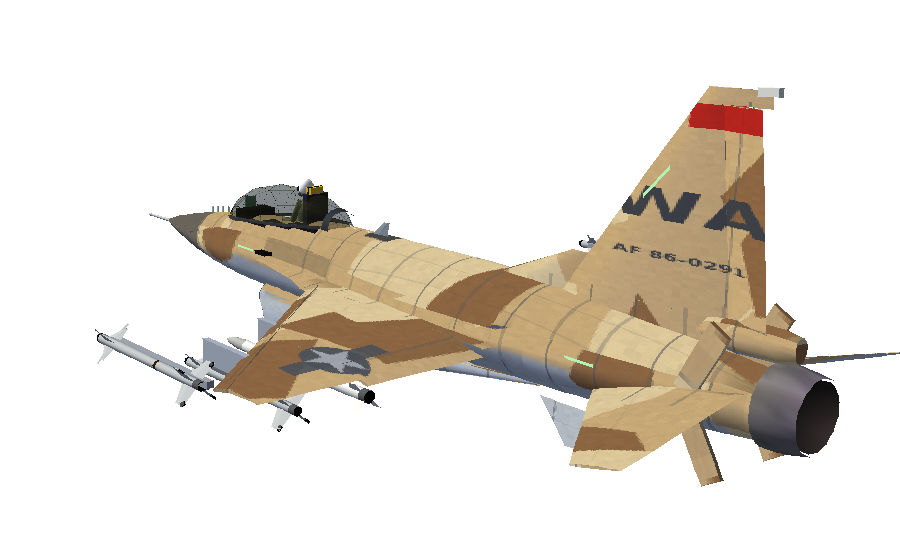
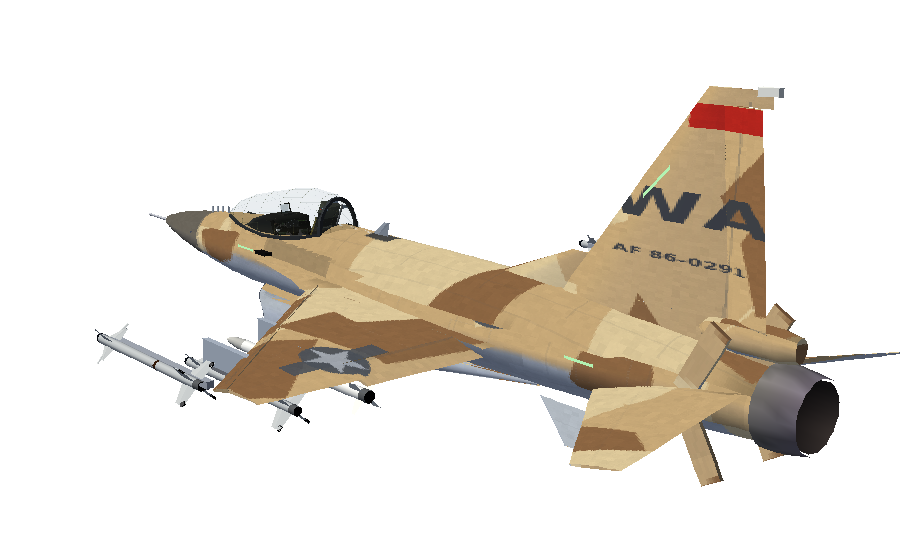
Full documentation: docs/DOKUMENTACIO.md, README refresh, new screenshots
- docs/DOKUMENTACIO.md: where to play, controls (keyboard, mouse, gamepad),
  game modes, every system in detail, Python <-> browser module map,
  tools, tests, publishing, development log, known limits and next ideas
- README: removed outdated bits (pilot, 6 s service, old throttle and
  instructor text), new project layout incl. web/ and tools/, link to the
  full documentation
- Screenshots of the current model, the lock box and the missile warning

Claude-Session: https://claude.ai/code/session_0124HmJ4x7WrAqLerXniUm2F

diff --git a/docs/DOKUMENTACIO.md b/docs/DOKUMENTACIO.md
@@ -1,0 +1,288 @@
+# Dogfight – F-16C Viper: teljes dokumentáció
+
+Ez a dokumentum mindent leír, ami a projektben elkészült: hol és hogyan lehet játszani, mit tud a játék,
+hogyan épül fel a kód, hogyan kell karbantartani, és milyen lépésekben készült (fejlesztési napló).
+A rövidebb, játékosoknak szóló leírás a [README](../README.md)-ben van.
+
+---
+
+## 1. Áttekintés
+
+War Thunder-szerű légiharc-játék egyetlen géppel, az **F-16C Block 50 Viperrel**. A repülés, a radar,
+a rakéták és a lockolás valódi adatokra épülnek (War Thunder- és valós F-16 értékek). Két, egymással
+egyenértékű változat van:
+
+| Változat | Hol fut | Mire jó |
+|---|---|---|
+| **Böngészős** (`web/`, Three.js) | Chrome, telepítés nélkül; GitHub Pages-ről vagy egyetlen letöltött fájlból | ezzel játszik a legtöbb ember, iskolában is |
+| **Python** (`dogfight/`, Panda3D) | saját gépen, `python main.py` | az „eredeti”, ebből készülnek a böngészős változat modelljei és a terep |
+
+A két változat ugyanazt a szimulációt használja (a JavaScript a Python sorról sorra átírt változata),
+ugyanazokkal a számokkal.
+
+---
+
+## 2. Hol és hogyan lehet játszani
+
+| Mód | Link / parancs | Megjegyzés |
+|---|---|---|
+| **GitHub Pages** | https://davidlipcs.github.io/Dogfight/ | bárki megnyithatja; a gyökér átirányít a `web/` oldalra; a `main` ágra pusholás után ~1 perc alatt frissül |
+| **Letöltött fájl** | https://davidlipcs.github.io/Dogfight/web/dogfight-offline.html | `Dogfight-F16.html`, ~14 MB, dupla kattintással indul, internet sem kell; a menüben „Letöltés egy fájlban” link is van |
+| **claude.ai artifact** | https://claude.ai/artifact/KAfUJ7Wu7RVBsrRqSdVNGE | privát (csak a tulajdonos látja, a Share menüből osztható); itt nincs letöltés link |
+| **Python** | `pip install -r requirements.txt` → `python main.py` | Python 3.9+, Panda3D, numpy |
+
+Az iskolai hálózatokra figyelve a böngészős változat **nem tölt semmit külső szerverről** (a three.js a
+repóban van). Csak a Google-betűtípusok jönnek kívülről; ha le vannak tiltva, a játék rendszerbetűkkel megy.
+Ha egy hálózat a `github.io` címeket is tiltja, a letöltött egyfájlos változat működik.
+
+---
+
+## 3. Irányítás
+
+### Egér és billentyűzet
+
+| Gomb | Funkció |
+|---|---|
+| Egér | War Thunder-féle egeres célzás: a gép a fehér kör felé repül |
+| S / W | orr fel / le kézzel – amíg nyomod, a segítő elengedi a gépet, a célzókör az orron marad |
+| A / D, Q / E | orsózás, oldalkormány |
+| Shift / Z vagy Ctrl | gáz fel / le: koppintás 5%, tartva 40%/s; 100%-nál (MIL) megáll, újabb Shift = utánégető; lefelé az első nyomás kikapcsolja |
+| G | futómű |
+| B (tartva) | földön kerékfék, levegőben légfék |
+| C / jobb egérgomb (tartva) | körülnézés (kabinban a fejet fordítja) |
+| V | kabin / külső nézet |
+| Görgő / középső egérgomb | fegyverváltás / zoom (böngésző) |
+| Bal egérgomb / Space | gépágyú / rakéta |
+| 1 / 2 | AIM-9M / AIM-120A |
+| X (tartva) | flare + chaff |
+| T / F / Y / R | radar lock / hőkövető lock / következő radarcél / radar be-ki |
+| M, H, P, Enter, Esc | jelölők, súgó, szünet, újraéledés, egér elengedése |
+
+A Python változatban a zoom a **Z** (tartva), a gáz le a **Ctrl**.
+
+### Kontroller (Xbox / PlayStation)
+
+Bal kar = közvetlen irányítás (hátra = orr fel) · jobb kar = célzókör · RT / LT = gáz · RB = ágyú ·
+A = rakéta · LB = flare · X / B = radar / hőkövető lock · Y = fegyverváltás · D-pad: futómű / fék / nézet /
+zoom · L3 tartva = körülnézés · R3 = jelölők · Start = szünet · Back = súgó. A menüben A = felszállás,
+X = indulás a levegőben. (Böngésző: Gamepad API; Python: Panda3D input devices.)
+
+---
+
+## 4. Játékmenet
+
+* **Kezdés:** a Viper Base légibázis 36-os pályájának elején (vagy `Indulás a levegőben` / `--air-start`).
+* **Hullámok:** az első ellenséges hullám 25 s-mal a felszállás után érkezik 32–40 km-ről; minden hullám
+  eggyel több ellenséget hoz (legfeljebb 6). Hullám után 5 s szünet.
+* **Játékmódok** (menü / `--mode`):
+  * **Arkád** – minden kilőtt rakéta 10 s múlva visszakerül a sínre; a lőszer és a flare/chaff 2 s
+    szünet után 10 s alatt feltölt.
+  * **Realisztikus** – újratöltés csak leszálláskor.
+* **Kiszolgálás:** mindkét módban, ha a bázis betonján 25 m/s alá lassulsz: azonnal újrafegyverzés,
+  tankolás, javítás.
+* **Nehézség:** könnyű / normál / nehéz (az AI pilóta tudását állítja, lásd 5.6).
+* **Halál / baleset:** „LELŐTTEK!” / „LEZUHANTÁL!”, Enter (kontrolleren A) = újraéledés a kifutón.
+
+---
+
+## 5. A rendszerek részletesen
+
+### 5.1 Repülésmodell (`sim/flight_model.py`, `web/js/flight.js`)
+
+* ISA légkör 0–32 km; magasság- és Mach-függő tolóerő (F110-GE-129), késleltetett hajtómű-felpörgés,
+  utánégető (~1,5 s), üzemanyag-fogyasztás.
+* FLCS (fly-by-wire): a bot G-t kér (−3 … +9 G), G-felépülés 10 G/s, 25°-os AoA-limiter, ~270°/s orsózás.
+* Transzonikus ellenállás M0,88-tól, indukált ellenállás, külső terhek ellenállása.
+* Futómű és földi fizika: gördülés, kerékfék, orrkerék-kormányzás, farokütés, kemény / ferde / futómű
+  nélküli földet érés = baleset, fékszárnyak a futóművel.
+* Mért értékek (lásd README táblázat): M1,19 tengerszinten, M1,89 11 km-en, plafon ~16 km, 9 G-s forduló
+  ~21°/s, felszállás utánégetővel ~450 m.
+* Fix lépésköz: fizika 100 Hz, szenzorok 30 Hz, AI 10 Hz.
+
+### 5.2 Egeres „instruktor” (`ai/steering.py`, `web/js/ai.js` – `steerTowards`)
+
+A War Thunder egeres irányításához hasonló robotpilóta; a játékos és az AI ugyanazt használja.
+
+* A **repülési pályát** viszi a cél felé, gravitáció-kompenzációval.
+* Kért fordulási sebesség = 0,9 × szöghiba (max 1 rad/s), a pálya már meglévő fordulásával csillapítva.
+* Kis korrekció (< ~40°): a bedöntés korlátozott (20°-tól nő), a maradékot oldalkormány végzi.
+* Kicsit lejjebb lévő cél (< 40°): negatív G-s nyomás vízszintes szárnyakkal, nem fordul hátára.
+  A húzás / nyomás döntésnek 20°-os hiszterézise van, így nem billeg oda-vissza.
+* A játékosnál a segítő 0,85 × 9 G-nél (~7,6 G) megáll; az S-sel kihúzható a teljes 9 G.
+* Kézi irányítás (W/S/A/D vagy bal kar): a segítő elenged, a nem nyomott tengely tartja a helyzetét,
+  a célzókör az orron marad (elengedéskor nem rántja vissza a gépet).
+
+### 5.3 Gázkar
+
+Koppintás = 5%, tartva 0,3 s után 40%/s. Felfelé 100%-nál (MIL) megáll, az utánégetőhöz új nyomás kell;
+lefelé az első nyomás az utánégetőből egyből 100%-ra vált. A HUD `THR` a gázkar, `MOT` a hajtómű valós
+állása (a hajtómű pár másodperc alatt éri utol). A billentyűzet-állapotot minden egér- és billentyű-esemény
+Shift / Ctrl jelzőjéből újraszinkronizálja (elveszett Shift-felengedés ellen, pl. Windows „Beragadó
+billentyűk”). Böngészőben a Ctrl+W előtt a lap rákérdez a kilépésre.
+
+### 5.4 Fegyverek és lockolás
+
+| Fegyver | Adatok |
+|---|---|
+| M61A1 | 6000 lövés/perc, 511 lőszer, 1050 m/s, nyomjelzők, előretartás-jelző radar lockkal |
+| AIM-9M | IR kereső 2,5° FOV, 40° kardán, IRCCM 0,65 (flare-szűrés), ~M2,5, 9 km keresőhatótáv (hőtől függ) |
+| AIM-120A | datalink + inerciális középszakasz, 16 km-en PITBULL (aktív), lofting, ~M4, maddog indítás |
+| ALE-47 | 30 flare + 30 chaff |
+
+**Lock segítő (csak a játékosnál):**
+* AIM-9M: a kereső 10°-os körben keres, és **magától lockol**, ha ellenség van benne. Az F azonnal lockol
+  bármelyik ellenségre ±30°-on belül, vagy elengedi a lockot (utána 3 s-ig nem lockol magától).
+* Radar: a **T** a nézési irányhoz legközelebbi ellenséget fogja be (±30°, 55 km-ig) ~0,25 s alatt;
+  újra T = következő cél, ha nincs más, unlock. Radar lockkal a hőkövető is ráfordul.
+
+**Lock kijelzés:** vastag négyzet a célon (a gép méretéhez igazodik), „LOCK” + fegyver, távolság, Vc;
+pirosan villogó „LŐHETSZ! (Space)” hatótávon belül; „még messze” / „túl közel” / „messze van – válts
+AIM-120-ra (2)”. Szaggatott vonal a várható találati pontig (⊗, a DLZ fly-out modellből számolt idővel),
+pöttyözött vonal a cél várható pályájáról, a saját rakéták rombusz-jelölője becsapódásig hátralévő idővel.
+
+**DLZ** (`launch_zone` / `launchZone`): 1D fly-out modell; Rmax ott ér véget, ahol a rakéta 450 m/s alá
+lassul (onnan már nem tud fordulni). Példa 5 km-en szemből: AIM-120 ~37 km, AIM-9 ~21 km.
+
+### 5.5 Szenzorok és figyelmeztetés
+
+* **APG-68 radar:** SRCH (±60° pásztázás, B-scope), ACM, STT; pulzus-Doppler notch (25 m/s), chaff a notch
+  közelében hat.
+* **RWR:** keresés (zöld), lock (sárga), indítás (piros) – radaros fenyegetések.
+* **Rakétaközelítés-jelző (MAWS, csak játékos):** minden rád kilőtt rakéta 15 km-en belül, a hőkövetők is:
+  gyorsuló sípolás, „MISSILE!”, piros jel a rakétán távolsággal és becsapódási idővel, kép szélén nyíl,
+  RWR-en `M`.
+* Ellenség-jelölők 80 km-ig.
+
+### 5.6 AI (`ai/pilot.py`, `web/js/ai.js`)
+
+Az ellenség **pontosan ugyanolyan F-16** (gép, festés, fegyverzet), csak a pilóta kicsit gyengébb:
+
+| Nehézség | max G | pontosság | rakéta-szünet | flare-esély | észlelés | DLZ-hányad, ahonnan lő |
+|---|---|---|---|---|---|---|
+| könnyű | 0,60 | 0,65 | 36 s | 0,30 | 0,20 | 0,5 (csak AIM-9) |
+| normál | 0,80 | 0,85 | 24 s | 0,60 | 0,45 | 0,7 |
+| nehéz | 0,92 | 0,95 | 15 s | 0,90 | 0,75 | 0,8 |
+
+Viselkedés: járőrözés, célkövetés (rakéta, ágyú), védekezés (notch, flare/chaff, kitérés), terep- és
+pályahatár-kerülés. A játékos a teljes DLZ-t kihasználhatja, így mindig messzebbről lőhet.
+
+### 5.7 Kabin és nézetek
+
+* Kabin-kád a törzsbe vágva, magas buborék-kabintető kerettel és tükrökkel, 30°-ban döntött ACES II ülés,
+  oldalkonzolok, oldalsó bot és gázkar, műszerfal két világító MFD-vel, DED, ICP, tartalék műszerek,
+  takaróernyő és HUD. Pilóta szándékosan nincs. A textúra: `dogfight/render/cockpit.png`
+  (`tools/make_cockpit_texture.py` rajzolja).
+* A kabinnézet a géphez rögzített (együtt orsózik, bólint), C / jobb gomb / L3 = fejfordítás; G alatt a
+  fej lesüllyed; 7,5 G felett elsötétülés, −1,8 G alatt bevörösödés.
+* A saját gép kabinnézetben külön, közeli (3 cm-es near plane) renderelési menetben rajzolódik
+  (Three.js layer 1, Panda3D camera mask + display region), így a műszerfal nem vágódik le.
+* Külső nézet: War Thunder-féle követő kamera, a horizontra visszabillenő célzással.
+
+### 5.8 Grafika és hang
+
+* F-16 kódból épített modell: Catmull-Rom törzs, LERX, NACA profilok, csuklós kormányfelületek, háromszínű
+  szürke festés textúra-atlasszal, fények, páracsóva, szárnyvég-örvények, utánégető-láng.
+* 102 × 102 km-es sziget LOD-terepen, légibázis (pálya, gurulóút, fedezékek, torony, fények), felhők,
+  tenger, részecske-effektek (füst, robbanás, flare), nyomjelzők.
+* Minden shader az első képkockán lefordul (nincs akadás az első utánégetőnél / rakétánál).
+* Hangok kódból generálva (WebAudio / Panda3D): hajtómű, utánégető, ágyú, growl, lock-hang, RWR, MAWS,
+  indítás, találat, robbanás.
+
+---
+
+## 6. A kód felépítése
+
+### 6.1 Megfeleltetés a két változat között
+
+| Python (`dogfight/`) | Böngésző (`web/js/`) | Tartalom |
+|---|---|---|
+| `sim/specs.py` | `specs.js` | F-16C, AIM-9M, AIM-120A, M61A1, APG-68, ALE-47 adatai |
+| `sim/atmosphere.py`, `sim/flight_model.py` | `flight.js` | légkör, aerodinamika, FLCS, hajtómű, futómű |
+| `sim/terrain.py`, `sim/airfield.py` | `terrain.js` | magasságmező, reptér |
+| `sim/ir_seeker.py`, `radar.py`, `rwr.py`, `missile.py`, `guns.py`, `signatures.py`, `countermeasures.py` | `weapons.js` | szenzorok, rakéták, ágyú, DLZ, flare/chaff |
+| `sim/aircraft.py`, `sim/world.py` | `sim.js` | repülőgép, világ, fix lépésköz, események |
+| `ai/steering.py`, `ai/pilot.py`, `controls.py` | `ai.js` | instruktor, AI pilóta, játékos pilóta |
+| `controls.py` | `game.js` (Input, Pad) | billentyű, egér, kontroller, gázkar |
+| `camera.py` | `game.js` (FlightCamera) | követő és kabin kamera |
+| `game.py` | `game.js` (Game) | játékmenet, módok, hullámok, kiszolgálás |
+| `render/*` | `render.js` | modellek, terep, reptér, effektek, kabin-menet |
+| `ui/hud.py`, `ui/scopes.py`, `ui/help.py` | `hud.js`, `index.html` | HUD, radar, RWR, G-hatások, súgó |
+| `audio.py` | `audio.js` | hangok |
+
+### 6.2 Eszközök (`tools/`)
+
+| Parancs | Mit csinál |
+|---|---|
+| `python tools/export_web_assets.py` | a Python modellből / terepből előállítja a `web/assets/*` fájlokat (f16.json, festések, terep, kabin-textúra) |
+| `python tools/make_cockpit_texture.py` | megrajzolja a kabin-textúrát (`dogfight/render/cockpit.png`, Pillow kell) |
+| `python tools/build_offline.py` | elkészíti a `web/dogfight-offline.html` egyfájlos változatot (Node.js kell; az esbuild-et npx tölti le) |
+
+Ha a modell vagy a terep változik: `make_cockpit_texture.py` (ha a kabin változott) →
+`export_web_assets.py` → `build_offline.py`.
+
+### 6.3 Tesztek
+
+`python -m pytest` – 50 teszt: repülésmodell (végsebesség, plafon, G, orsózás, hajtómű), földi fizika
+(felszállás, leszállás, balesetek), rakéták (sebesség, rávezetés, flare, notch, pitbull), szenzorok
+(radar, IR, lock segítő, MAWS), instruktor (kis korrekció, nyomás, G-határ), gázkar (koppintás, MIL-ütköző,
+utánégető), világ (hullámok, találatok).
+
+### 6.4 Közzététel
+
+* **GitHub Pages:** a repó beállítása „Deploy from branch: main / (root)” (Jekyll). A gyökér `index.html`
+  átirányít a `web/`-re. Pusholás után a „pages build and deployment” workflow ~1 perc alatt frissít.
+* **claude.ai artifact:** a `web/index.html` belső része (doctype / html / head / body nélkül, letöltés-link
+  nélkül) a `web/js/*` és `web/assets/*` fájlokkal publikálva.
+* **Offline fájl:** `tools/build_offline.py` után a `web/dogfight-offline.html` commitolva (a Pages-ről
+  tölthető le).
+
+---
+
+## 7. Fejlesztési napló
+
+| # | Kérés | Ami elkészült | Commit |
+|---|---|---|---|
+| 1 | War Thunder-szerű játék, először csak F-16, rakéták, lockolás | Python + Panda3D játék: F-16C, AIM-9M, AIM-120A, gépágyú, radar, RWR, AI, HUD | `cadf9c6` |
+| 2 | Térkép kisebb-nagyobb hegyekkel | 102 km-es sziget, LOD-terep, gyorsítótár | `3de7ea1` |
+| 3 | Realisztikus mozgás, gyorsulás, magasság | ISA légkör, hajtómű-késleltetés, G-felépülés, plafon, instruktor | `b7f5160` |
+| 4 | Felszállópálya, több realizmus | Viper Base, felszállás / leszállás fizika, kiszolgálás | `724ecd3` |
+| 5 | Sokkal részletesebb, szebb F-16 | kódból épített részletes modell, rakéták, festés | `0204790` |
+| 6 | Még szebb F-16 | mozgó kormányfelületek, háromszínű festés, fények, páracsóva | `41e7aca` |
+| 7 | Kipróbálás Chrome-ban, telepítés nélkül | teljes böngészős port (Three.js), claude.ai artifact | `318cb0e` |
+| 8 | Kevésbé gyerekes modell, részletes kabin, pilóta nélkül | kabin-kád, ülés, műszerfal MFD-kkel, HUD; pilóta törölve; kabin-menet | `ede5940` |
+| 9 | Fegyverváltás görgővel, S fel / W le | görgő = fegyverváltás, zoom a középső gombon, S/W csere | `714b24a` |
+| 10 | Könnyebb lockolás | lock segítő: önálló IR-lock, T a nézési irányba | `ae256b2` |
+| 11 | Elérés GitHubról, iskolában | GitHub Pages, three.js a repóban, gyökér-átirányítás | `b9f79c6` |
+| 12 | Egyértelmű lock: négyzet, hova megy | lock-négyzet, LŐHETSZ, találati pont, rakéta-pályák | `8b140a4` |
+| 13 | Letöltés | egyfájlos offline változat | `73ee2d0` |
+| 14 | Beakad az utánégető | Shift-újraszinkron, Z = AB ki, shader-előfordítás | `4bfc908` |
+| 15 | Kabin forogjon a géppel, realisztikusabb forduló, figyelmeztetés minden rakétára; Arkád / Realisztikus mód; precíz gázkar | rögzített kabin, G-hatások, MAWS, gázkar MIL-ütközővel, játékmódok | `021dca0` |
+| 16 | Furcsa fordulás, forog W/S-nél – legyen War Thunder-szerű | új instruktor (arányos, nyom, hiszterézis), kézi irányítás átvétele | `b62b4a1` |
+| 17 | Kontroller, flare és lőszer újratöltés | Gamepad (böngésző + Python), arkád lőszer / flare töltés | `2bc5829` |
+| 18 | AI ugyanolyan gép, kicsit gyengébb; én is lőhessek messziről | azonos F-16, gyengébb AI, DLZ alapú AI-lövés, 80 km-es jelölők | `b8c41ae` |
+| 19 | Dokumentáció | ez a dokumentum, README frissítés, új képek | – |
+
+---
+
+## 8. Ismert korlátok és tesztelési megjegyzések
+
+* A böngészős változatot csak **fej nélküli Chrome-ban, szoftveres rendereléssel** teszteltük (1–18 FPS).
+  Valódi videokártyán a sebességet nem mértük; gyenge iskolai gépen kisebb ablak segíthet.
+* **Kontroller:** a böngészőben szimulált kontrollerrel teszteltük; a Python változat kontrolleres része
+  valódi eszköz nélkül nem volt kipróbálható.
+* Böngészőben a Ctrl lenyomva tartása közben a böngésző saját gyorsbillentyűi (pl. Ctrl+1 lapváltás)
+  továbbra is működnek – a Z biztonságosabb gáz le gomb.
+* A claude.ai artifact privát; másnak a Share menüből kell megosztani. Ott a letöltés link nem működik.
+* Ha egy hálózat a `github.io`-t is tiltja, csak a letöltött egyfájlos változat működik.
+* Az offline fájl pillanatkép: változtatás után újra kell építeni (`build_offline.py`) és újra letölteni.
+* Az „aggressor” sivatagi festés még benne van a kódban, de jelenleg nem használja semmi.
+
+## 9. Ötletek a folytatáshoz
+
+* **Valódi 3D modell:** egy jó licencű F-16 `.glb` / `.blend` fájl beépítése (a mozgó kormányfelületek a
+  meglévő csuklópont-rendszerre köthetők). Blenderrel (pl. Blender MCP a Claude asztali alkalmazásában)
+  a modellezés vizuálisan ellenőrizhető lenne.
+* Több repülőgép (pl. MiG-29, Su-27) saját adatokkal.
+* Beállítások mentése (egér-érzékenység, mód, nehézség) a böngészőben.
+* Többjátékos mód.
+* Pontosabb rakéta-fly-out (2D, manőverező céllal) a DLZ-hez.

diff --git a/README.md b/README.md
@@ -44,8 +44,8 @@ Részletes, valódi méretekből kódból épített F-16C Block 50 (nem kell hoz
   kabinkád: 30°-ban hátradöntött ACES II katapultülés (sárga-fekete katapultfogantyú, hevederek),
   oldalkonzolok kapcsolókkal, oldalsó botkormány és gázkar, műszerfal két világító MFD-vel (radar és
   fegyverállapot), DED kijelző, ICP billentyűzet, tartalék műszerek, takaróernyő és HUD. A kabinnézetben (V)
-  a saját gép külön, közeli renderelési menetben rajzolódik, így a műszerfal nem vágódik le
-  (sisak, napellenző, oxigénmaszk, kezek)
+  a saját gép külön, közeli renderelési menetben rajzolódik, így a műszerfal nem vágódik le.
+  Pilóta szándékosan nincs a gépben
 * **festés:** a valódi F-16 háromszínű szürke sémája (sötét gerinc, középszürke oldalak és szárnyak,
   világos has), panelvonalak, szegecsek, árnyékolás a csatlakozásoknál, koromnyomok,
   USAF felségjelek, farokkód és gyári szám (egy „aggressor" sivatagi terepszín is készül, de most az ellenség
@@ -57,8 +57,9 @@ Közelről a részletes modell, 2,5 km-en túl egy egyszerűbb változat látszi
 
 | | |
 |---|---|
-| ![Aggressor kinyitott légfékkel](docs/f16_aggressor.png) | ![Kabin](docs/f16_cockpit.png) |
+| ![Aggressor festés, kitérített kormányfelületekkel](docs/f16_aggressor.png) | ![Kabin](docs/f16_cockpit.png) |
 | ![Felülnézet](docs/f16_top.png) | ![Páracsóva fordulóban](docs/screenshot_vapor.png) |
+| ![Lock: négyzet a célon, várható találati pont](docs/screenshot_lock.png) | ![Rakétaközelítés-jelző a kabinban](docs/screenshot_missile_warning.png) |
 
 ## Telepítés és indítás
 
@@ -144,7 +145,8 @@ ICAO-jelzésekkel, gurulóút, betonfedezékek, irányítótorony, parkoló F-16
 megközelítési fények). Az ellenség csak a felszállás után érkezik.
 
 **Felszállás**
-1. **Shift**-tel told fel a gázt 100% fölé (utánégető). A hajtómű pár másodperc alatt pörög fel.
+1. Tartsd a **Shift**-et: a gáz 100%-nál (MIL) megáll, ott még egy **Shift** = utánégető. A hajtómű pár
+   másodperc alatt pörög fel (a HUD-on `THR` a gázkar, `MOT` a hajtómű).
 2. ~**250–280 km/h**-nál emeld meg az egeret (vagy nyomd az **S**-t): a gép felemeli az orrát.
    Vigyázz, 13° felett a farok a betonhoz ér (farokütés)!
 3. ~**320 km/h** körül elemelkedik (utánégetővel kb. 450 m nekifutás, katonai teljesítménnyel kb. 700 m).
@@ -157,7 +159,7 @@ megközelítési fények). Az ellenség csak a felszállás után érkezik.
 2. Közelíts ~**270 km/h**-val, lassú süllyedéssel, vízszintes szárnyakkal.
 3. Földet érés: süllyedés **< 4 m/s**, bedöntés < 12°. Különben eltörik a futómű / leér a szárnyvég.
 4. A földön **B** = kerékfék (a gép kb. 700 m alatt áll meg), az egérrel/Q-E-vel kormányzol (orrkerék).
-5. A bázis betonján **megállva** 6 s alatt újrafegyvereznek, tankolnak és megjavítanak.
+5. A bázis betonján **lelassulva** (25 m/s alatt) azonnal újrafegyvereznek, tankolnak és megjavítanak.
 
 ## Hogyan működik a lockolás? (mint a War Thunderben)
 
@@ -171,7 +173,7 @@ A játékos gépén **lockolást segítő mód** van (az AI-n nincs): a hőköve
    **magas, folyamatos sípolásra** vált, és innentől a kereső magától követi – akár 40°-ra is elnézhet
    az orrtól. Az **F** azonnal lockol bármelyik ellenségre az orr előtti ±30°-ban, vagy elengedi a
    lockot (utána 3 s-ig nem lockol magától).
-4. **Space** = indítás. Repülés közben a rakéta saját keresővel, arányos rávezetéssel megy a célra.
+3. **Space** = indítás. Repülés közben a rakéta saját keresővel, arányos rávezetéssel megy a célra.
 
 Tippek: a hátsó félgömbből és utánégetős (AB) célra sokkal messzebbről lockol (≈9–13 km),
 szemből csak ≈3–4 km-ről. Ha van radar lockod, a kereső automatikusan a radarcélra fordul és lockol.
@@ -244,16 +246,19 @@ Az F-16C Block 50 (F110-GE-129, 4× AIM-9M + 2× AIM-120A) mért értékei a mod
   elforgatás csak elég légsebességnél, farokütés, kemény / ferde / futómű nélküli földet érés = baleset,
   a futómű a földön nem húzható be, kiengedve ellenállást ad, a fékszárnyak ~240 csomó felett felhúzódnak.
 * **Aerodinamika:** Mach-függő felhajtóerő, transzonikus ellenállás-növekedés M0,88-tól, indukált ellenállás.
-* **Egeres irányítás:** az "instruktor" a **repülési pályát** (sebességvektort) viszi a fehér körre,
-  gravitáció-kompenzációval: vízszintes célnál tartja a magasságot, oldalra mutatva koordinált,
-  helyesen bedöntött fordulót repül, mögötted lévő célnál vízszintes fordulót választ.
+* **Egeres irányítás (War Thunder-féle instruktor):** a **repülési pályát** (sebességvektort) viszi a fehér
+  körre, gravitáció-kompenzációval. A kért fordulási sebesség a szöggel arányos, ezért a kis korrekciók
+  finomak: kevés bedöntés + oldalkormány. A kicsit lejjebb lévő célhoz negatív G-vel lenyom (nem fordul
+  hátára), a húzás/nyomás választásnak hiszterézise van (nem billeg). A játékosnál ~7,6 G-nél megáll
+  (az S-sel kihúzható a 9 G). Amíg W/S/A/D-t nyomsz, elengedi a gépet, a célzókör pedig az orron marad.
+* **G-hatások:** 7,5 G felett tartósan elszürkül / elsötétül a kép, −1,8 G alatt bevörösödik.
 
 Minden adat egy helyen van: `dogfight/sim/specs.py` – itt lehet hangolni.
 
 ## Projekt felépítése
 
 ```
-main.py                 indítás, parancssori kapcsolók
+main.py                 indítás, parancssori kapcsolók (--mode arcade|realistic, --difficulty, ...)
 dogfight/
   game.py               Panda3D alkalmazás, játékmenet (hullámok, újraéledés)
   camera.py             War Thunder-féle egeres kamera, kabin nézet
@@ -270,9 +275,24 @@ dogfight/
     guns.py             gépágyú, ballisztika, találat-doboz, előretartás
     aircraft.py, world.py, terrain.py, signatures.py, countermeasures.py
   ai/                   AI pilóta + közös "instruktor" (irány -> kormánymozdulatok)
-  render/               részletes F-16 (f16_model.py) és rakéta modellek, terep (LOD), reptér, ég, effektek
-  ui/                   HUD, radar B-scope, RWR, súgó
-tests/                  pytest tesztek a szimulációhoz
+  render/               részletes F-16 (f16_model.py), kabin (cockpit.py + cockpit.png), rakéták,
+                        terep (LOD), reptér, ég, effektek
+  ui/                   HUD, radar B-scope, RWR, G-hatások, súgó
+web/                    böngészős változat (Three.js) - ugyanaz a játék JavaScriptben
+  index.html            menü, súgó, a játék oldala (GitHub Pages: /Dogfight/web/)
+  js/                   util, specs, flight, terrain, weapons, sim, ai, render, hud, audio, game (+ three.min.js)
+  assets/               exportált gép-geometria, festések, terep, kabin-textúra
+  dogfight-offline.html az egész játék egy fájlban (tools/build_offline.py készíti)
+tools/
+  export_web_assets.py  a Python modell / terep exportja a web/assets-be
+  make_cockpit_texture.py  a kabin-textúra (műszerfal, MFD-k, konzolok) megrajzolása
+  build_offline.py      egyfájlos offline változat (esbuild + data: URI-k)
+tests/                  pytest tesztek (repülés, földi fizika, rakéták, szenzorok, instruktor, gázkar)
+docs/                   képek + DOKUMENTACIO.md (teljes dokumentáció, fejlesztési napló)
+index.html              átirányít a böngészős játékra (GitHub Pages gyökér)
 ```
+
+A teljes dokumentáció (minden funkció, felépítés, karbantartás, fejlesztési napló):
+**[docs/DOKUMENTACIO.md](docs/DOKUMENTACIO.md)**
 
 Tesztek futtatása: `pip install pytest && python -m pytest`
